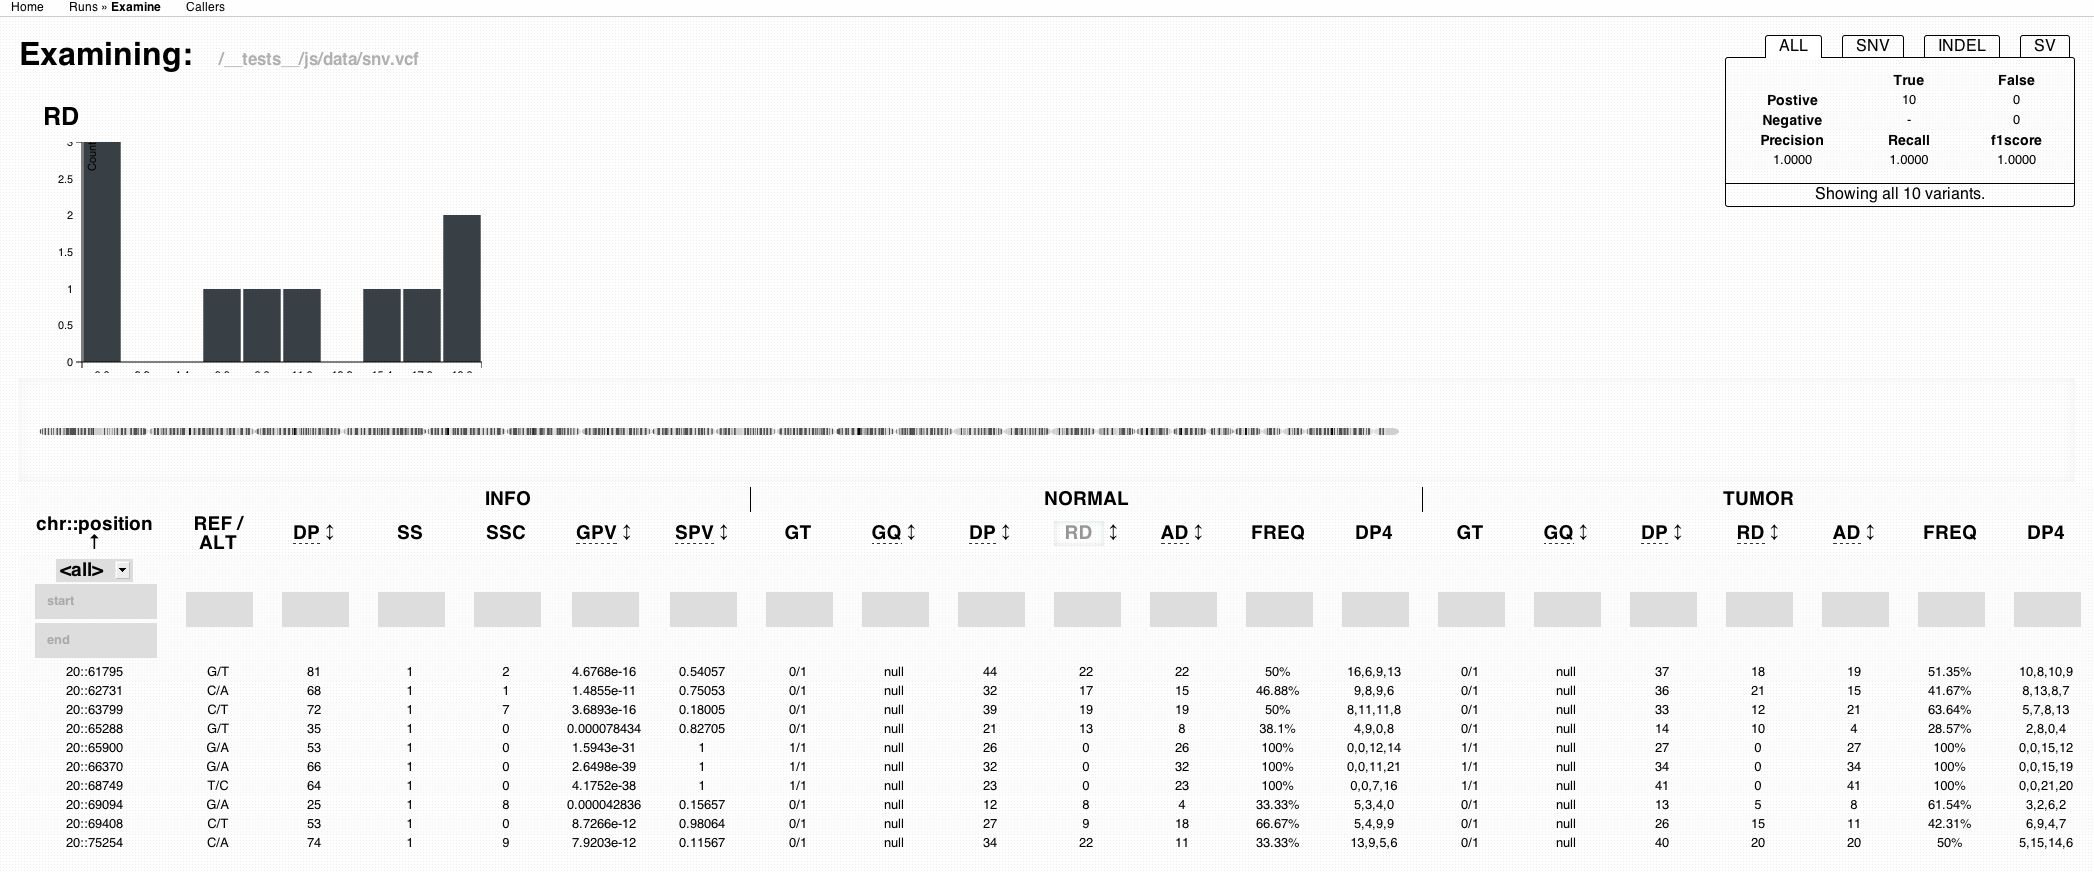
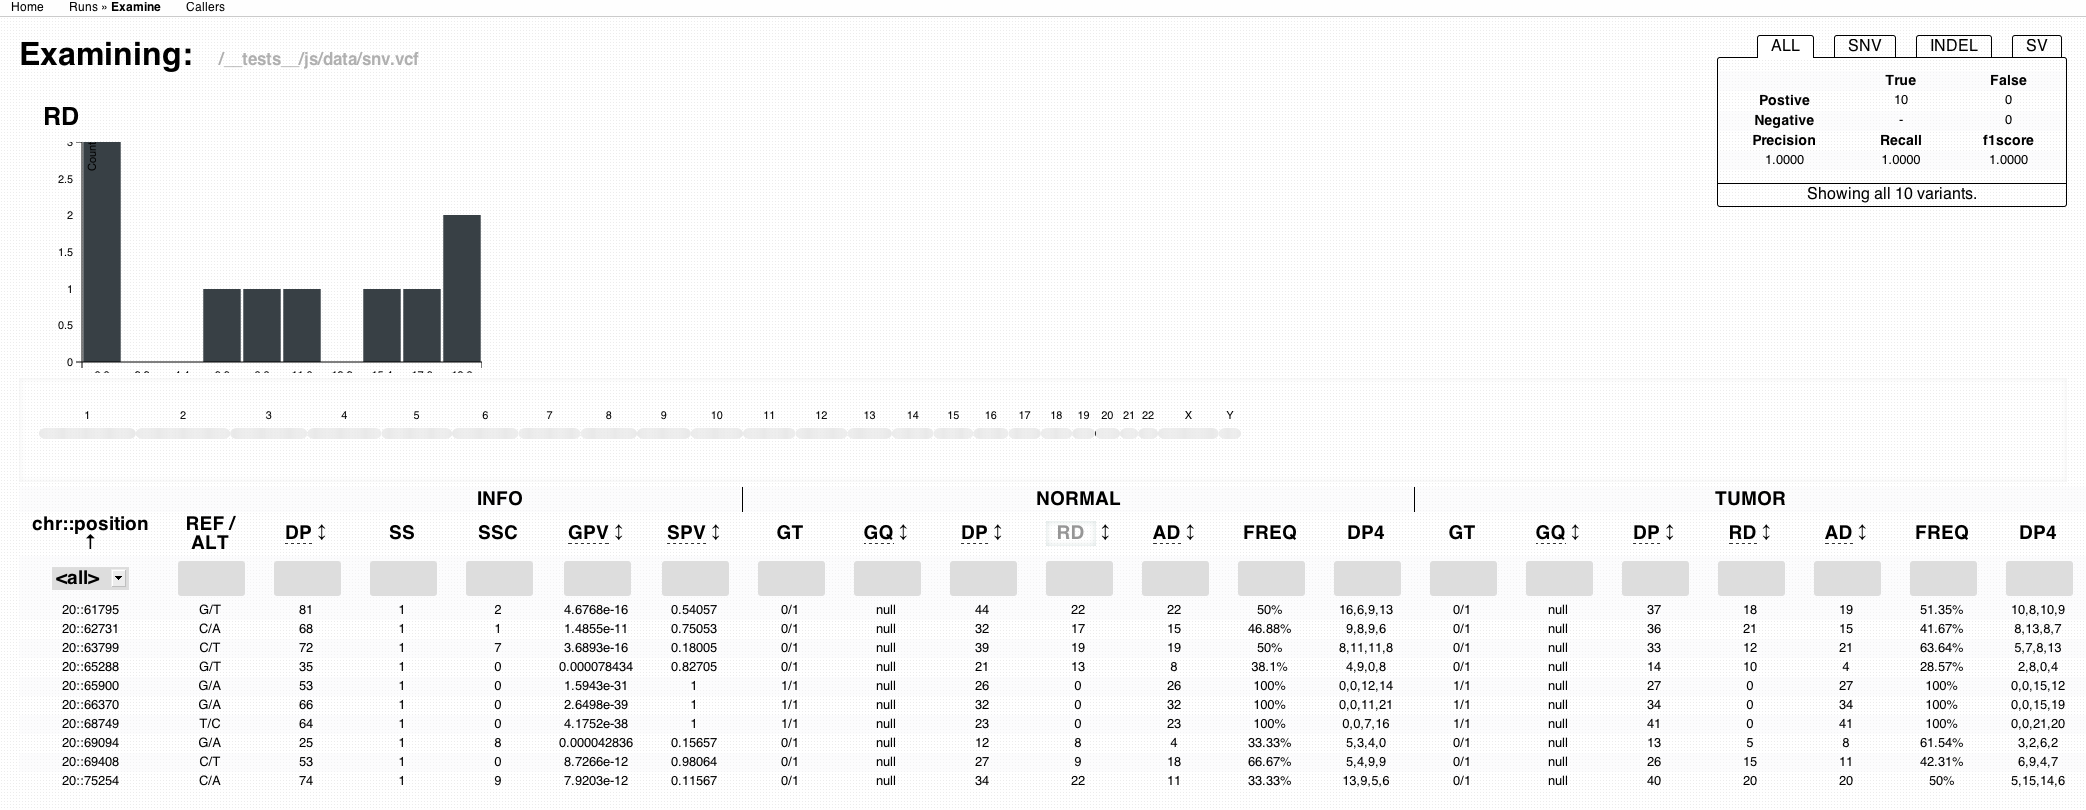
Examine: Karyogram changes
Update pdiff tests, fix VCFTable test rename.

diff --git a/__tests__/js/VCFTable-test.js b/__tests__/js/VCFTable-test.js
@@ -29,11 +29,11 @@ describe('VCFTable', function() {
   function makeTestVCFTable(vcfData) {
     var columns = vcfTools.deriveColumns(vcfData);
 
-    var pos = {start: null, end: null, chromosome: null};
+    var range = {start: null, end: null, chromosome: null};
     return TestUtils.renderIntoDocument(
                 <VCFTable hasLoaded={true}
                           records={vcfData.records}
-                          position={pos}
+                          range={range}
                           header={vcfData.header}
                           columns={columns}
                           selectedColumns={null}
